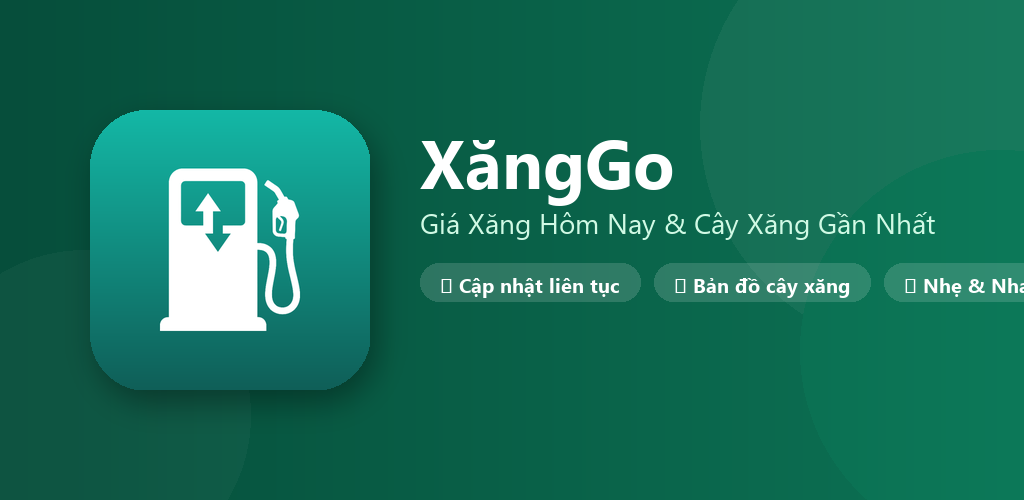
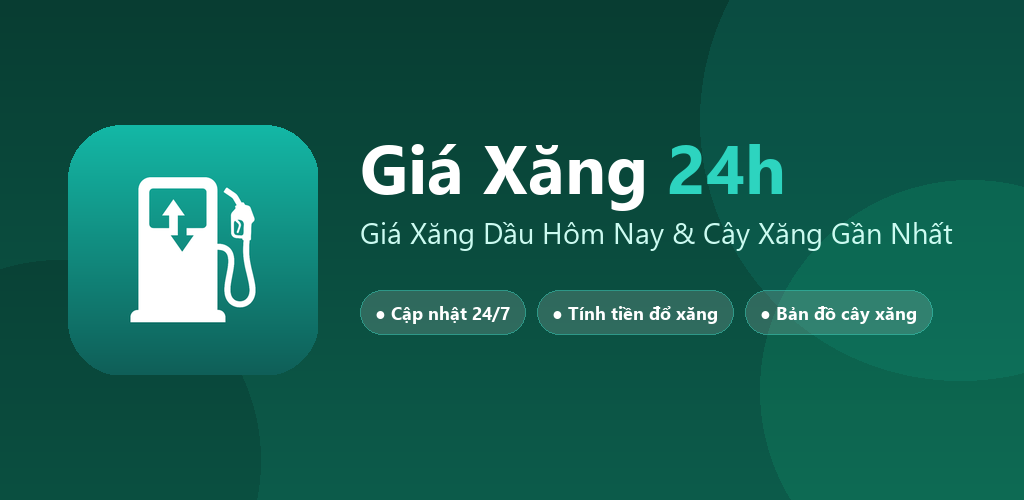
chore(release): bump version to 1.1 (code 2) and update ASO assets & privacy policy to Giá Xăng 24h

diff --git a/docs/index.html b/docs/index.html
@@ -3,7 +3,7 @@
 <head>
 <meta charset="utf-8">
 <meta name="viewport" content="width=device-width, initial-scale=1">
-<title>Chính sách quyền riêng tư – XăngGo</title>
+<title>Chính sách quyền riêng tư – Giá Xăng 24h (XăngGo)</title>
 <style>
   body { font-family: -apple-system, Segoe UI, Roboto, sans-serif; max-width: 760px; margin: 0 auto; padding: 24px; line-height: 1.6; color: #0f172a; }
   h1 { color: #0f766e; } h2 { margin-top: 28px; color: #134e4a; }
@@ -12,33 +12,33 @@
 </style>
 </head>
 <body>
-<h1>Chính sách quyền riêng tư – XăngGo</h1>
-<p class="muted">Có hiệu lực từ: 10/10/2026 · Ứng dụng: XăngGo (<code>vn.xanggo.app</code>)</p>
+<h1>Chính sách quyền riêng tư – Giá Xăng 24h (XăngGo)</h1>
+<p class="muted">Có hiệu lực từ: 10/10/2026 · Ứng dụng: Giá Xăng 24h / XăngGo (<code>vn.xanggo.app</code>)</p>
 
-<p>XăngGo là ứng dụng tra cứu giá xăng dầu Việt Nam, so sánh giá xăng thế giới và tìm cây xăng gần bạn. XăngGo <strong>không yêu cầu tạo tài khoản</strong> và <strong>không thu thập tên, số điện thoại, email</strong> hay danh bạ của bạn.</p>
+<p><strong>Giá Xăng 24h</strong> (XăngGo) là ứng dụng tra cứu giá xăng dầu Việt Nam, tính tiền đổ xăng, so sánh giá xăng thế giới và tìm cây xăng gần bạn. Ứng dụng <strong>không yêu cầu tạo tài khoản</strong> và <strong>không thu thập tên, số điện thoại, email</strong> hay danh bạ của bạn.</p>
 
 <h2>1. Vị trí</h2>
 <ul>
   <li>Chỉ khi bạn mở tab <em>Trạm Xăng</em> và bấm <em>Cho phép vị trí</em>, ứng dụng mới đọc vị trí (gần đúng hoặc chính xác, tuỳ bạn chọn) của thiết bị.</li>
-  <li>Vị trí được gửi tới dịch vụ bản đồ mở <strong>OpenStreetMap (Overpass API)</strong> để tìm cây xăng trong bán kính 5 km. Ứng dụng <strong>không lưu</strong> vị trí của bạn trên máy chủ của XăngGo và không chia sẻ cho bên nào khác.</li>
+  <li>Vị trí được gửi tới dịch vụ bản đồ mở <strong>OpenStreetMap (Overpass API)</strong> để tìm cây xăng trong bán kính 5 km. Ứng dụng <strong>không lưu</strong> vị trí của bạn trên máy chủ của Giá Xăng 24h và không chia sẻ cho bên nào khác.</li>
   <li>Khi bạn bấm chỉ đường, ứng dụng mở Google Maps với toạ độ cây xăng; việc xử lý tiếp theo thuộc chính sách của Google.</li>
   <li>Bạn có thể thu hồi quyền vị trí bất cứ lúc nào trong Cài đặt của Android.</li>
 </ul>
 
 <h2>2. Quảng cáo (Google AdMob)</h2>
-<p>XăngGo có thể hiển thị quảng cáo qua Google AdMob. AdMob có thể thu thập <strong>mã nhận dạng quảng cáo (Advertising ID)</strong>, thông tin thiết bị và địa chỉ IP để hiển thị, đo lường quảng cáo và chống gian lận. Xem: <a href="https://policies.google.com/technologies/ads">Cách Google sử dụng dữ liệu trong quảng cáo</a>. Bạn có thể đặt lại hoặc tắt cá nhân hoá quảng cáo trong <em>Cài đặt → Google → Quảng cáo</em>.</p>
+<p>Giá Xăng 24h có thể hiển thị quảng cáo qua Google AdMob. AdMob có thể thu thập <strong>mã nhận dạng quảng cáo (Advertising ID)</strong>, thông tin thiết bị và địa chỉ IP để hiển thị, đo lường quảng cáo và chống gian lận. Xem: <a href="https://policies.google.com/technologies/ads">Cách Google sử dụng dữ liệu trong quảng cáo</a>. Bạn có thể đặt lại hoặc tắt cá nhân hoá quảng cáo trong <em>Cài đặt → Google → Quảng cáo</em>.</p>
 
-<h2>3. Dữ liệu giá xăng (Firebase)</h2>
-<p>Ứng dụng tải bảng giá từ Google Firebase Cloud Firestore. Đây là dữ liệu công khai chỉ đọc; ứng dụng không gửi dữ liệu cá nhân lên Firestore. Google có thể ghi nhận thông tin kỹ thuật (như địa chỉ IP) khi kết nối, theo <a href="https://firebase.google.com/support/privacy">chính sách của Firebase</a>.</p>
+<h2>3. Dữ liệu giá xăng (Firebase &amp; GitHub CDN)</h2>
+<p>Ứng dụng tải bảng giá từ Google Firebase Cloud Firestore và kho dữ liệu công khai chỉ đọc; ứng dụng không gửi dữ liệu cá nhân lên máy chủ. Google có thể ghi nhận thông tin kỹ thuật (như địa chỉ IP) khi kết nối, theo <a href="https://firebase.google.com/support/privacy">chính sách của Firebase</a>.</p>
 
 <h2>4. Bảo mật dữ liệu</h2>
-<p>Mọi kết nối mạng của ứng dụng đều dùng HTTPS. XăngGo không bán dữ liệu người dùng.</p>
+<p>Mọi kết nối mạng của ứng dụng đều dùng HTTPS. Giá Xăng 24h không bán dữ liệu người dùng.</p>
 
 <h2>5. Trẻ em</h2>
-<p>XăngGo không hướng đến trẻ em dưới 13 tuổi và không cố ý thu thập dữ liệu của trẻ em.</p>
+<p>Giá Xăng 24h không hướng đến trẻ em dưới 13 tuổi và không cố ý thu thập dữ liệu của trẻ em.</p>
 
 <h2>6. Nguồn dữ liệu</h2>
-<p>Giá xăng trong nước tổng hợp từ thông báo điều hành giá của Liên Bộ Công Thương – Tài chính (niêm yết Petrolimex). Giá thế giới tham khảo từ GlobalPetrolPrices. Dữ liệu cây xăng © OpenStreetMap contributors. XăngGo là ứng dụng độc lập, không phải ứng dụng chính thức của Petrolimex hay cơ quan nhà nước.</p>
+<p>Giá xăng trong nước tổng hợp từ thông báo điều hành giá của Liên Bộ Công Thương – Tài chính (niêm yết Petrolimex). Giá thế giới tham khảo từ GlobalPetrolPrices. Dữ liệu cây xăng © OpenStreetMap contributors. Giá Xăng 24h là ứng dụng độc lập, không phải ứng dụng chính thức của Petrolimex hay cơ quan nhà nước.</p>
 
 <h2>7. Thay đổi chính sách</h2>
 <p>Khi chính sách thay đổi, chúng tôi sẽ cập nhật trang này và ngày hiệu lực ở đầu trang.</p>

diff --git a/docs/privacy-policy.html b/docs/privacy-policy.html
@@ -3,7 +3,7 @@
 <head>
 <meta charset="utf-8">
 <meta name="viewport" content="width=device-width, initial-scale=1">
-<title>Chính sách quyền riêng tư – XăngGo</title>
+<title>Chính sách quyền riêng tư – Giá Xăng 24h (XăngGo)</title>
 <style>
   body { font-family: -apple-system, Segoe UI, Roboto, sans-serif; max-width: 760px; margin: 0 auto; padding: 24px; line-height: 1.6; color: #0f172a; }
   h1 { color: #0f766e; } h2 { margin-top: 28px; color: #134e4a; }
@@ -12,33 +12,33 @@
 </style>
 </head>
 <body>
-<h1>Chính sách quyền riêng tư – XăngGo</h1>
-<p class="muted">Có hiệu lực từ: 10/10/2026 · Ứng dụng: XăngGo (<code>vn.xanggo.app</code>)</p>
+<h1>Chính sách quyền riêng tư – Giá Xăng 24h (XăngGo)</h1>
+<p class="muted">Có hiệu lực từ: 10/10/2026 · Ứng dụng: Giá Xăng 24h / XăngGo (<code>vn.xanggo.app</code>)</p>
 
-<p>XăngGo là ứng dụng tra cứu giá xăng dầu Việt Nam, so sánh giá xăng thế giới và tìm cây xăng gần bạn. XăngGo <strong>không yêu cầu tạo tài khoản</strong> và <strong>không thu thập tên, số điện thoại, email</strong> hay danh bạ của bạn.</p>
+<p><strong>Giá Xăng 24h</strong> (XăngGo) là ứng dụng tra cứu giá xăng dầu Việt Nam, tính tiền đổ xăng, so sánh giá xăng thế giới và tìm cây xăng gần bạn. Ứng dụng <strong>không yêu cầu tạo tài khoản</strong> và <strong>không thu thập tên, số điện thoại, email</strong> hay danh bạ của bạn.</p>
 
 <h2>1. Vị trí</h2>
 <ul>
   <li>Chỉ khi bạn mở tab <em>Trạm Xăng</em> và bấm <em>Cho phép vị trí</em>, ứng dụng mới đọc vị trí (gần đúng hoặc chính xác, tuỳ bạn chọn) của thiết bị.</li>
-  <li>Vị trí được gửi tới dịch vụ bản đồ mở <strong>OpenStreetMap (Overpass API)</strong> để tìm cây xăng trong bán kính 5 km. Ứng dụng <strong>không lưu</strong> vị trí của bạn trên máy chủ của XăngGo và không chia sẻ cho bên nào khác.</li>
+  <li>Vị trí được gửi tới dịch vụ bản đồ mở <strong>OpenStreetMap (Overpass API)</strong> để tìm cây xăng trong bán kính 5 km. Ứng dụng <strong>không lưu</strong> vị trí của bạn trên máy chủ của Giá Xăng 24h và không chia sẻ cho bên nào khác.</li>
   <li>Khi bạn bấm chỉ đường, ứng dụng mở Google Maps với toạ độ cây xăng; việc xử lý tiếp theo thuộc chính sách của Google.</li>
   <li>Bạn có thể thu hồi quyền vị trí bất cứ lúc nào trong Cài đặt của Android.</li>
 </ul>
 
 <h2>2. Quảng cáo (Google AdMob)</h2>
-<p>XăngGo có thể hiển thị quảng cáo qua Google AdMob. AdMob có thể thu thập <strong>mã nhận dạng quảng cáo (Advertising ID)</strong>, thông tin thiết bị và địa chỉ IP để hiển thị, đo lường quảng cáo và chống gian lận. Xem: <a href="https://policies.google.com/technologies/ads">Cách Google sử dụng dữ liệu trong quảng cáo</a>. Bạn có thể đặt lại hoặc tắt cá nhân hoá quảng cáo trong <em>Cài đặt → Google → Quảng cáo</em>.</p>
+<p>Giá Xăng 24h có thể hiển thị quảng cáo qua Google AdMob. AdMob có thể thu thập <strong>mã nhận dạng quảng cáo (Advertising ID)</strong>, thông tin thiết bị và địa chỉ IP để hiển thị, đo lường quảng cáo và chống gian lận. Xem: <a href="https://policies.google.com/technologies/ads">Cách Google sử dụng dữ liệu trong quảng cáo</a>. Bạn có thể đặt lại hoặc tắt cá nhân hoá quảng cáo trong <em>Cài đặt → Google → Quảng cáo</em>.</p>
 
-<h2>3. Dữ liệu giá xăng (Firebase)</h2>
-<p>Ứng dụng tải bảng giá từ Google Firebase Cloud Firestore. Đây là dữ liệu công khai chỉ đọc; ứng dụng không gửi dữ liệu cá nhân lên Firestore. Google có thể ghi nhận thông tin kỹ thuật (như địa chỉ IP) khi kết nối, theo <a href="https://firebase.google.com/support/privacy">chính sách của Firebase</a>.</p>
+<h2>3. Dữ liệu giá xăng (Firebase &amp; GitHub CDN)</h2>
+<p>Ứng dụng tải bảng giá từ Google Firebase Cloud Firestore và kho dữ liệu công khai chỉ đọc; ứng dụng không gửi dữ liệu cá nhân lên máy chủ. Google có thể ghi nhận thông tin kỹ thuật (như địa chỉ IP) khi kết nối, theo <a href="https://firebase.google.com/support/privacy">chính sách của Firebase</a>.</p>
 
 <h2>4. Bảo mật dữ liệu</h2>
-<p>Mọi kết nối mạng của ứng dụng đều dùng HTTPS. XăngGo không bán dữ liệu người dùng.</p>
+<p>Mọi kết nối mạng của ứng dụng đều dùng HTTPS. Giá Xăng 24h không bán dữ liệu người dùng.</p>
 
 <h2>5. Trẻ em</h2>
-<p>XăngGo không hướng đến trẻ em dưới 13 tuổi và không cố ý thu thập dữ liệu của trẻ em.</p>
+<p>Giá Xăng 24h không hướng đến trẻ em dưới 13 tuổi và không cố ý thu thập dữ liệu của trẻ em.</p>
 
 <h2>6. Nguồn dữ liệu</h2>
-<p>Giá xăng trong nước tổng hợp từ thông báo điều hành giá của Liên Bộ Công Thương – Tài chính (niêm yết Petrolimex). Giá thế giới tham khảo từ GlobalPetrolPrices. Dữ liệu cây xăng © OpenStreetMap contributors. XăngGo là ứng dụng độc lập, không phải ứng dụng chính thức của Petrolimex hay cơ quan nhà nước.</p>
+<p>Giá xăng trong nước tổng hợp từ thông báo điều hành giá của Liên Bộ Công Thương – Tài chính (niêm yết Petrolimex). Giá thế giới tham khảo từ GlobalPetrolPrices. Dữ liệu cây xăng © OpenStreetMap contributors. Giá Xăng 24h là ứng dụng độc lập, không phải ứng dụng chính thức của Petrolimex hay cơ quan nhà nước.</p>
 
 <h2>7. Thay đổi chính sách</h2>
 <p>Khi chính sách thay đổi, chúng tôi sẽ cập nhật trang này và ngày hiệu lực ở đầu trang.</p>

diff --git a/app/src/main/java/com/example/xanggo/util/ShareCardGenerator.kt b/app/src/main/java/com/example/xanggo/util/ShareCardGenerator.kt
@@ -306,9 +306,9 @@ object ShareCardGenerator {
         canvas.drawText(footerText, width / 2f, 1235f, footerPaint)
 
         val shareCaption = if (lang == AppLang.EN) {
-            "⛽ Vietnam Fuel Price Today (${formatDateShort(data.updatedAt)}): ${translateFuelName(heroItem.name, lang)} is ${currencyFormat.format(heroPrice)} VND/L. Full tank for $vehicleName (${litersText}L) costs ${currencyFormat.format(fullTankCost)} VND! Check live prices & nearby gas stations with Giá Xăng 24h: https://play.google.com/store/apps/details?id=com.mrkienls.xanggo"
+            "⛽ Vietnam Fuel Price Today (${formatDateShort(data.updatedAt)}): ${translateFuelName(heroItem.name, lang)} is ${currencyFormat.format(heroPrice)} VND/L. Full tank for $vehicleName (${litersText}L) costs ${currencyFormat.format(fullTankCost)} VND! Check live prices & nearby gas stations with Giá Xăng 24h: https://play.google.com/store/apps/details?id=vn.xanggo.app"
         } else {
-            "⛽ Giá xăng dầu hôm nay (${formatDateShort(data.updatedAt)}): ${heroItem.name} ở mức ${currencyFormat.format(heroPrice)} đ/lít. Đổ đầy bình $vehicleName (${litersText}L) hết ${currencyFormat.format(fullTankCost)} đ! Tra cứu giá xăng & tìm cây xăng gần nhất trên Giá Xăng 24h: https://play.google.com/store/apps/details?id=com.mrkienls.xanggo"
+            "⛽ Giá xăng dầu hôm nay (${formatDateShort(data.updatedAt)}): ${heroItem.name} ở mức ${currencyFormat.format(heroPrice)} đ/lít. Đổ đầy bình $vehicleName (${litersText}L) hết ${currencyFormat.format(fullTankCost)} đ! Tra cứu giá xăng & tìm cây xăng gần nhất trên Giá Xăng 24h: https://play.google.com/store/apps/details?id=vn.xanggo.app"
         }
 
         return ShareCardPreviewData(bitmap, "gia_xang_24h.png", shareCaption)
@@ -469,9 +469,9 @@ object ShareCardGenerator {
         canvas.drawText(footerText, width / 2f, 1245f, footerPaint)
 
         val shareCaption = if (lang == AppLang.EN) {
-            "🌍 ASEAN Fuel Price & Affordability Ranking! How much of daily income does 1 liter of gas cost in Vietnam vs Singapore, Thailand, Malaysia? Check live on Giá Xăng 24h: https://play.google.com/store/apps/details?id=com.mrkienls.xanggo"
+            "🌍 ASEAN Fuel Price & Affordability Ranking! How much of daily income does 1 liter of gas cost in Vietnam vs Singapore, Thailand, Malaysia? Check live on Giá Xăng 24h: https://play.google.com/store/apps/details?id=vn.xanggo.app"
         } else {
-            "🌍 Bảng xếp hạng giá xăng & sức mua Đông Nam Á! Đổ 1 lít xăng ở Việt Nam tốn bao nhiêu phút làm việc so với Singapore, Thái Lan, Malaysia? Xem chi tiết trên Giá Xăng 24h: https://play.google.com/store/apps/details?id=com.mrkienls.xanggo"
+            "🌍 Bảng xếp hạng giá xăng & sức mua Đông Nam Á! Đổ 1 lít xăng ở Việt Nam tốn bao nhiêu phút làm việc so với Singapore, Thái Lan, Malaysia? Xem chi tiết trên Giá Xăng 24h: https://play.google.com/store/apps/details?id=vn.xanggo.app"
         }
 
         return ShareCardPreviewData(bitmap, "gia_xang_24h_asean.png", shareCaption)
